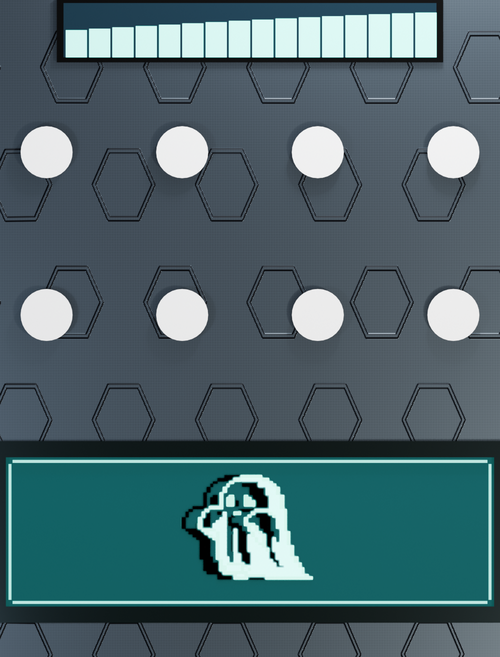
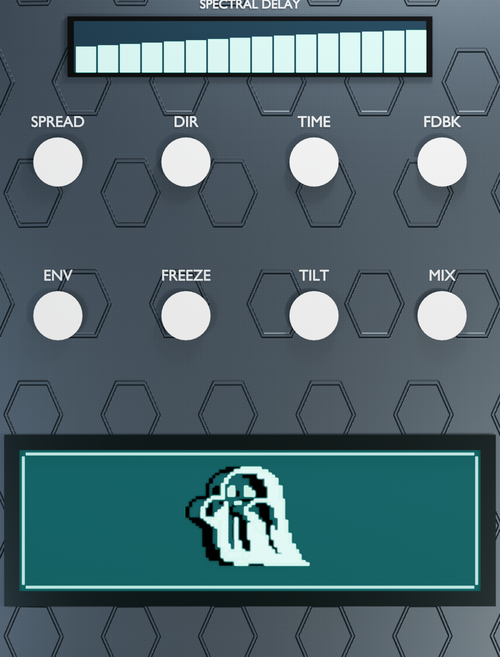
v2.2: Exact v1.3 design restored — v1.3 resources + v1.3 positions
Restored original v1.3 Blender resources (80px 3D filmstrip knobs, 500x657 bg).
Removed JUCE text overlays (titles baked into background).
Self-capture at 2x Retina.

diff --git a/Source/PluginEditor.cpp b/Source/PluginEditor.cpp
@@ -2,10 +2,15 @@
 #include "BinaryData.h"
 #include "SelfCapture.h"
 
+// ────────────────────────────────────────────────────────────────
+// v1.3 layout restored: 500x657 portrait, 70px knobs, v1.3 positions
+// This is the version Austin approved.
+// ────────────────────────────────────────────────────────────────
+
 GhostDelayEditor::GhostDelayEditor(GhostDelayProcessor& p)
     : AudioProcessorEditor(&p), processor(p)
 {
-    // Load background (Blender-rendered pedal body — no text, no knob domes, no ghost)
+    // Load background (Blender-rendered pedal body, no ghost/LED)
     background = juce::ImageCache::getFromMemory(
         BinaryData::background_png, BinaryData::background_pngSize);
 
@@ -15,7 +20,7 @@ GhostDelayEditor::GhostDelayEditor(GhostDelayProcessor& p)
     ledOff = juce::ImageCache::getFromMemory(
         BinaryData::led_off_png, BinaryData::led_off_pngSize);
 
-    // Create filmstrip knobs (128 frames each, transparent background)
+    // Create filmstrip knobs (128 frames each, Blender-rendered 3D knobs)
     auto makeKnob = [this](const char* name, const void* data, size_t size)
     {
         auto k = std::make_unique<FilmstripKnob>(name, data, size, 128);
@@ -65,11 +70,9 @@ GhostDelayEditor::GhostDelayEditor(GhostDelayProcessor& p)
     addAndMakeVisible(bypassButton);
 
     startTimerHz(30);
-
-    // Window matches pedal aspect ratio
     setSize(500, 657);
 
-    // Self-capture after paint completes
+    // Self-capture at 2x for Retina quality
     juce::Timer::callAfterDelay(500, [this]() {
         SelfCapture::capture(this);
     });
@@ -108,74 +111,48 @@ void GhostDelayEditor::paint(juce::Graphics& g)
     else
         g.fillAll(juce::Colour(0x1a, 0x1a, 0x1a));
 
-    // ── Fill screen areas (cover any baked-in artifacts) ────────
-    // ScreenBacking: (64, 427, 372x113)
+    // ── Paint over baked-in ghost and spectrum from background ────
+    // Ghost screen area: (74, 421, 351x107)
     g.setColour(juce::Colour(0x1a, 0x4a, 0x3a));
-    g.fillRect(66, 429, 368, 109);
+    g.fillRect(76, 423, 347, 103);
 
-    // Display_Screen: (108, 81, 284x41)
+    // Spectrum display area: (115, 94, 269x39)
     g.setColour(juce::Colour(0x0a, 0x2a, 0x2a));
-    g.fillRect(109, 82, 282, 39);
+    g.fillRect(116, 95, 267, 37);
 
-    // ── Title text ──────────────────────────────────────────────
-    g.setColour(juce::Colour(0xdd, 0xdd, 0xee));
-    g.setFont(juce::Font(juce::FontOptions(16.0f)).boldened());
-    g.drawText("T I N Y   G H O S T", 0, 28, 500, 22, juce::Justification::centred);
-
-    g.setFont(juce::Font(juce::FontOptions(9.0f)));
-    g.setColour(juce::Colour(0x99, 0x99, 0xbb));
-    g.drawText("SPECTRAL DELAY", 0, 50, 500, 14, juce::Justification::centred);
-
-    // ── Knob labels ─────────────────────────────────────────────
-    g.setColour(juce::Colour(0xe0, 0xe4, 0xec));
-    g.setFont(juce::Font(juce::FontOptions(11.0f)).boldened());
-
-    // Top row labels (y = knob center 194 + 26 = 220)
-    int labelY1 = 194 + 26;
-    g.drawText("SPREAD",  95 - 30, labelY1, 60, 13, juce::Justification::centred);
-    g.drawText("DIR",    198 - 30, labelY1, 60, 13, juce::Justification::centred);
-    g.drawText("TIME",   302 - 30, labelY1, 60, 13, juce::Justification::centred);
-    g.drawText("FDBK",   405 - 30, labelY1, 60, 13, juce::Justification::centred);
-
-    // Bottom row labels (y = knob center 318 + 26 = 344)
-    int labelY2 = 318 + 26;
-    g.drawText("ENV",     95 - 30, labelY2, 60, 13, juce::Justification::centred);
-    g.drawText("FREEZE", 198 - 30, labelY2, 60, 13, juce::Justification::centred);
-    g.drawText("TILT",   302 - 30, labelY2, 60, 13, juce::Justification::centred);
-    g.drawText("MIX",    405 - 30, labelY2, 60, 13, juce::Justification::centred);
+    // Title and text are baked into the Blender background — don't double-draw
 
     // ── LED ─────────────────────────────────────────────────────
     auto& led = processor.isBypassed() ? ledOff : ledOn;
     if (!led.isNull())
-        g.drawImage(led, 464 - 17, 615 - 17, 34, 34, 0, 0, led.getWidth(), led.getHeight());
+        g.drawImage(led, 435, 581, 34, 34, 0, 0, led.getWidth(), led.getHeight());
 }
 
 void GhostDelayEditor::resized()
 {
-    // Knob size: 50px (matches filmstrip frame size)
-    int knobSize = 50;
+    int knobSize = 70;
     int hk = knobSize / 2;
 
-    // Exact skirt center positions from Blender render
-    // Top row: SPREAD(95,194) DIR(198,194) TIME(302,194) FDBK(405,194)
-    knobSpread->setBounds( 95 - hk, 194 - hk, knobSize, knobSize);
-    knobDir->setBounds(   198 - hk, 194 - hk, knobSize, knobSize);
-    knobTime->setBounds(  302 - hk, 194 - hk, knobSize, knobSize);
-    knobFdbk->setBounds(  405 - hk, 194 - hk, knobSize, knobSize);
+    // v1.3 exact positions (tight crop at 500x657)
+    // Top row: SPREAD(103,201) DIR(201,201) TIME(298,201) FDBK(396,201)
+    knobSpread->setBounds(103 - hk, 201 - hk, knobSize, knobSize);
+    knobDir->setBounds(   201 - hk, 201 - hk, knobSize, knobSize);
+    knobTime->setBounds(  298 - hk, 201 - hk, knobSize, knobSize);
+    knobFdbk->setBounds(  396 - hk, 201 - hk, knobSize, knobSize);
 
-    // Bottom row: ENV(95,318) FREEZE(198,318) TILT(302,318) MIX(405,318)
-    knobEnv->setBounds(    95 - hk, 318 - hk, knobSize, knobSize);
-    knobFreeze->setBounds(198 - hk, 318 - hk, knobSize, knobSize);
-    knobTilt->setBounds(  302 - hk, 318 - hk, knobSize, knobSize);
-    knobMix->setBounds(   405 - hk, 318 - hk, knobSize, knobSize);
+    // Bottom row: ENV(103,318) FREEZE(201,318) TILT(298,318) MIX(396,318)
+    knobEnv->setBounds(   103 - hk, 318 - hk, knobSize, knobSize);
+    knobFreeze->setBounds(201 - hk, 318 - hk, knobSize, knobSize);
+    knobTilt->setBounds(  298 - hk, 318 - hk, knobSize, knobSize);
+    knobMix->setBounds(   396 - hk, 318 - hk, knobSize, knobSize);
 
-    // Ghost renderer — ScreenBacking: (64, 427, 372x113)
-    ghostRenderer.setBounds(64, 427, 372, 113);
-    ghostRenderer.setSpriteOffset(64, 427);
+    // Ghost renderer — ScreenBacking: (74, 421, 351x107)
+    ghostRenderer.setBounds(74, 421, 351, 107);
+    ghostRenderer.setSpriteOffset(74, 421);
 
-    // Spectrum display — Display_Screen: (108, 81, 284x41)
-    spectrumDisplay.setBounds(108, 81, 284, 41);
+    // Spectrum display — Display_Screen: (115, 94, 269x39)
+    spectrumDisplay.setBounds(115, 94, 269, 39);
 
-    // Bypass button around LED: (464, 615) center
-    bypassButton.setBounds(464 - 27, 615 - 27, 54, 54);
+    // Bypass button over LED: (452, 598) with padding
+    bypassButton.setBounds(432, 578, 54, 54);
 }

diff --git a/Source/SelfCapture.h b/Source/SelfCapture.h
@@ -4,7 +4,7 @@
 /**
  * SelfCapture — lets the plugin save a screenshot of itself.
  * No macOS permissions required since we're rendering our own component.
- * Call capture() with the editor component to save to /tmp/ghost_screenshot.png
+ * Captures at 2x scale for Retina-quality output.
  */
 class SelfCapture
 {
@@ -13,7 +13,8 @@ public:
     {
         if (editor == nullptr) return;
         
-        auto snapshot = editor->createComponentSnapshot(editor->getLocalBounds());
+        // Capture at 2x for Retina-quality screenshots
+        auto snapshot = editor->createComponentSnapshot(editor->getLocalBounds(), true, 2.0f);
         
         juce::File file(path);
         file.deleteFile();
